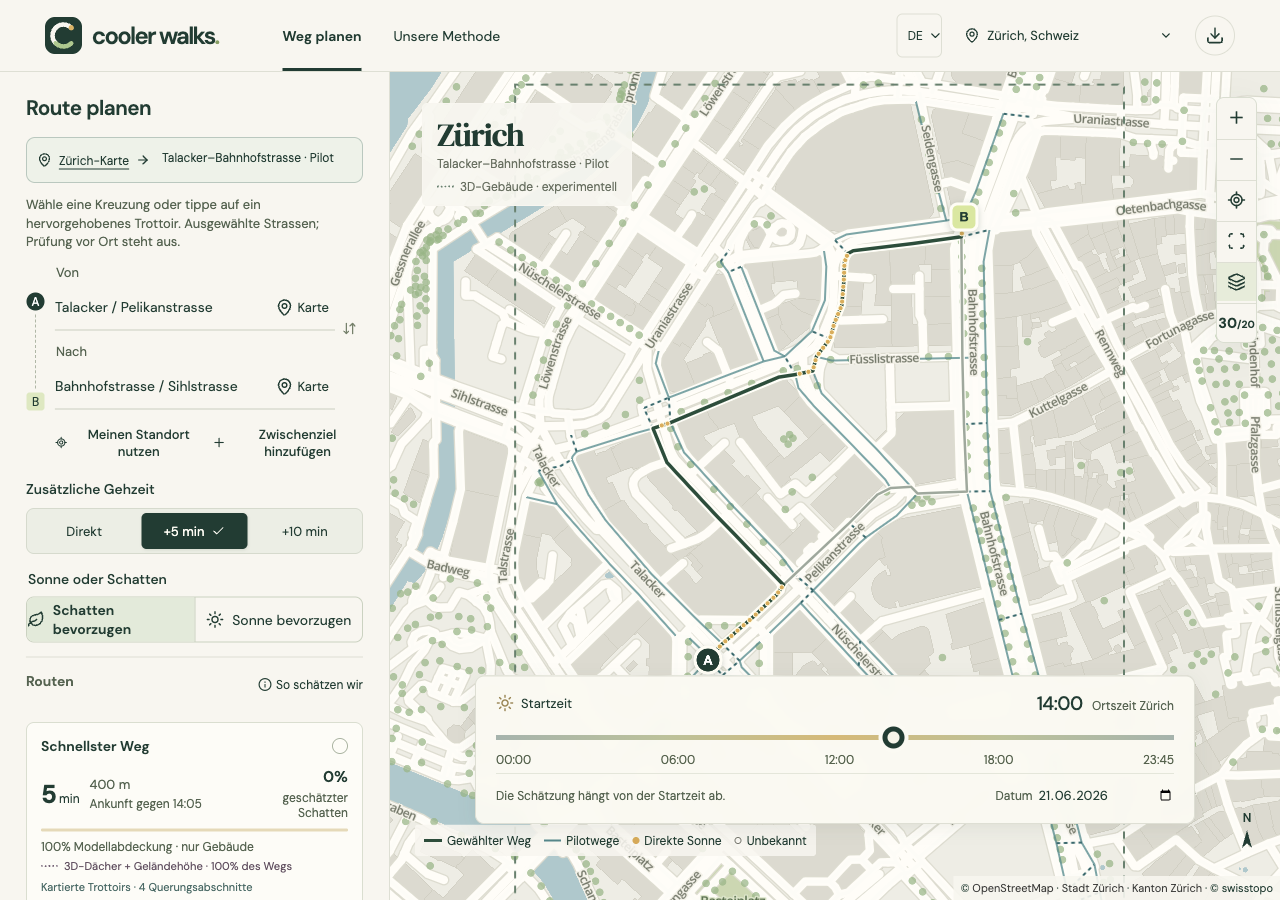
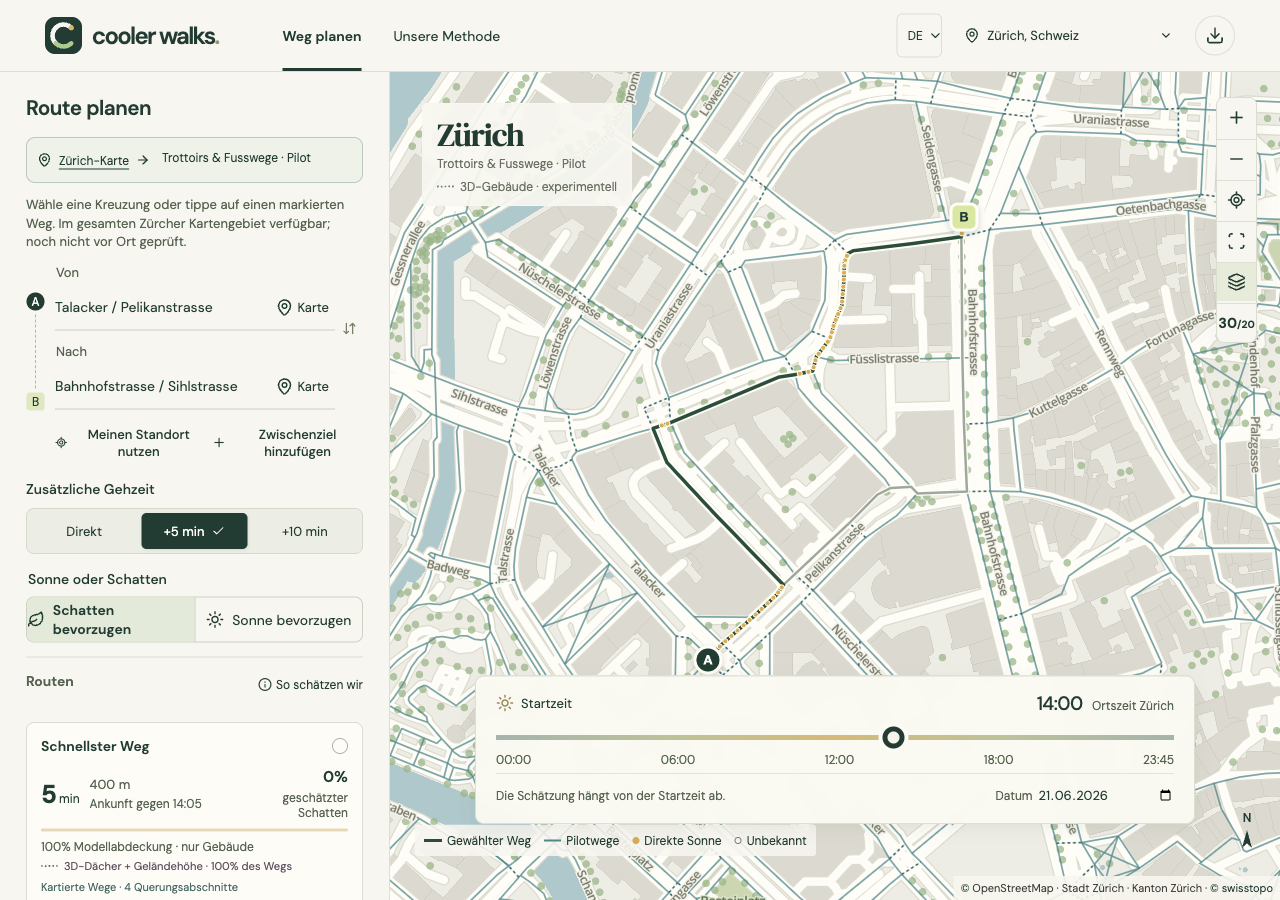
docs: record tested pavement release and format device reports

diff --git a/docs/platform.md b/docs/platform.md
@@ -245,4 +245,6 @@ The shared planner now covers all complete official walking lines in the current
 
 Production build, all five pack checksums and the production-worker upgrade test pass. The upgrade seeds the original v1 pavement asset under an older worker, loads the real v2 planner without manual intervention, migrates compatible caches and computes both Zurich networks offline. Android/iOS web assets are synchronized and Android 0.15.0/build 14 compiles. The unchanged 2 GB Android 16 emulator passes both the pavement and regular-Zurich regressions: offline Oerlikon junction search/shade routes, central time/budget changes, enlarged maps and safe areas, cold autumn startup, historical vehicle counts, addresses, German and city switching. Cold autumn routing took 28.8 seconds and offline restart 29.4 seconds, within the unchanged 60-second limit. [Pavement report](native-pavement-validation.json) · [regular-app report](native-counts-validation.json) · [Oerlikon capture](screenshots/android-pavements-oerlikon-de.png).
 
[2 lines of base64/hex data omitted]
+
+The final runtime `78f98d5` is published at [coolerwalks.ch](https://coolerwalks.ch/de/?view=planner&network=pavements). The hosted source asset matches the reviewed v2 data exactly; all 81 tile hashes, five map downloads, native CORS and public/security pages pass. [Hosted report](releases/0.15.0-host.json). Chrome 154.0.8037.98 installs and launches it as a standalone PWA and passes EN/DE offline pavement routes, complete-area download/reload, historical counts, official addresses and missing-city recovery with no page errors. [Public PWA report](releases/0.15.0-pwa-validation.json). The temporary desktop installation was removed after testing.

diff --git a/docs/progress.md b/docs/progress.md
@@ -6,7 +6,7 @@ Expanded the optional municipal-path mode from 115 central features to **25,740 
 
 Known/uncertain walking heights are masked on 1,128 features; missing heights are not evaluated at river-bed or tunnel-surface ground. Eight source-network journeys include six districts, Bahnhofbrücke and a 5.77 km Altstetten–Oerlikon trip. All edges stay inside coverage; gaps remain disconnected. Historical independent shadow points and competitor-comparison populations are preserved. Field accuracy, crossings and current access still need the planned observations.
 
-Local checks pass: TypeScript, 107 unit/model/language tests, complete source/routing verification, 28 browser scenarios, three focused layout/recovery regressions after screenshot refinement, formatting, production build and all five pack hashes. The Zurich package is 81.5 MB compressed / 188.7 MB expanded, within unchanged limits. The production-worker upgrade regression also passes with the original v1 pavement cache and subsequent offline use. Android/iOS assets are synchronized and Android compiles. The same 2 GB Android emulator passes expanded offline Oerlikon routes and the regular Zurich cold-start/counts/address regression. [Platform evidence](platform.md). Hosted and CI outcomes are recorded after completion.
+Local checks pass: TypeScript, 107 unit/model/language tests, complete source/routing verification, 28 browser scenarios, three focused layout/recovery regressions after screenshot refinement, formatting, production build and all five pack hashes. The Zurich package is 81.5 MB compressed / 188.7 MB expanded, within unchanged limits. The production-worker upgrade regression also passes with the original v1 pavement cache and subsequent offline use. Android/iOS assets are synchronized and Android compiles. The same 2 GB Android emulator passes expanded offline Oerlikon routes and the regular Zurich cold-start/counts/address regression. [Platform evidence](platform.md). The final runtime is live on coolerwalks.ch. Hosted source/tile/pack checks and public PWA installation/standalone/offline checks pass. Final GitHub results are recorded separately.
 
 Next: field-check district pavements, crossings, steps and bridge/underpass heights; then match traffic evidence to municipal paths with verified alignment. Neither computational agreement nor wider source coverage establishes field accuracy.
 
